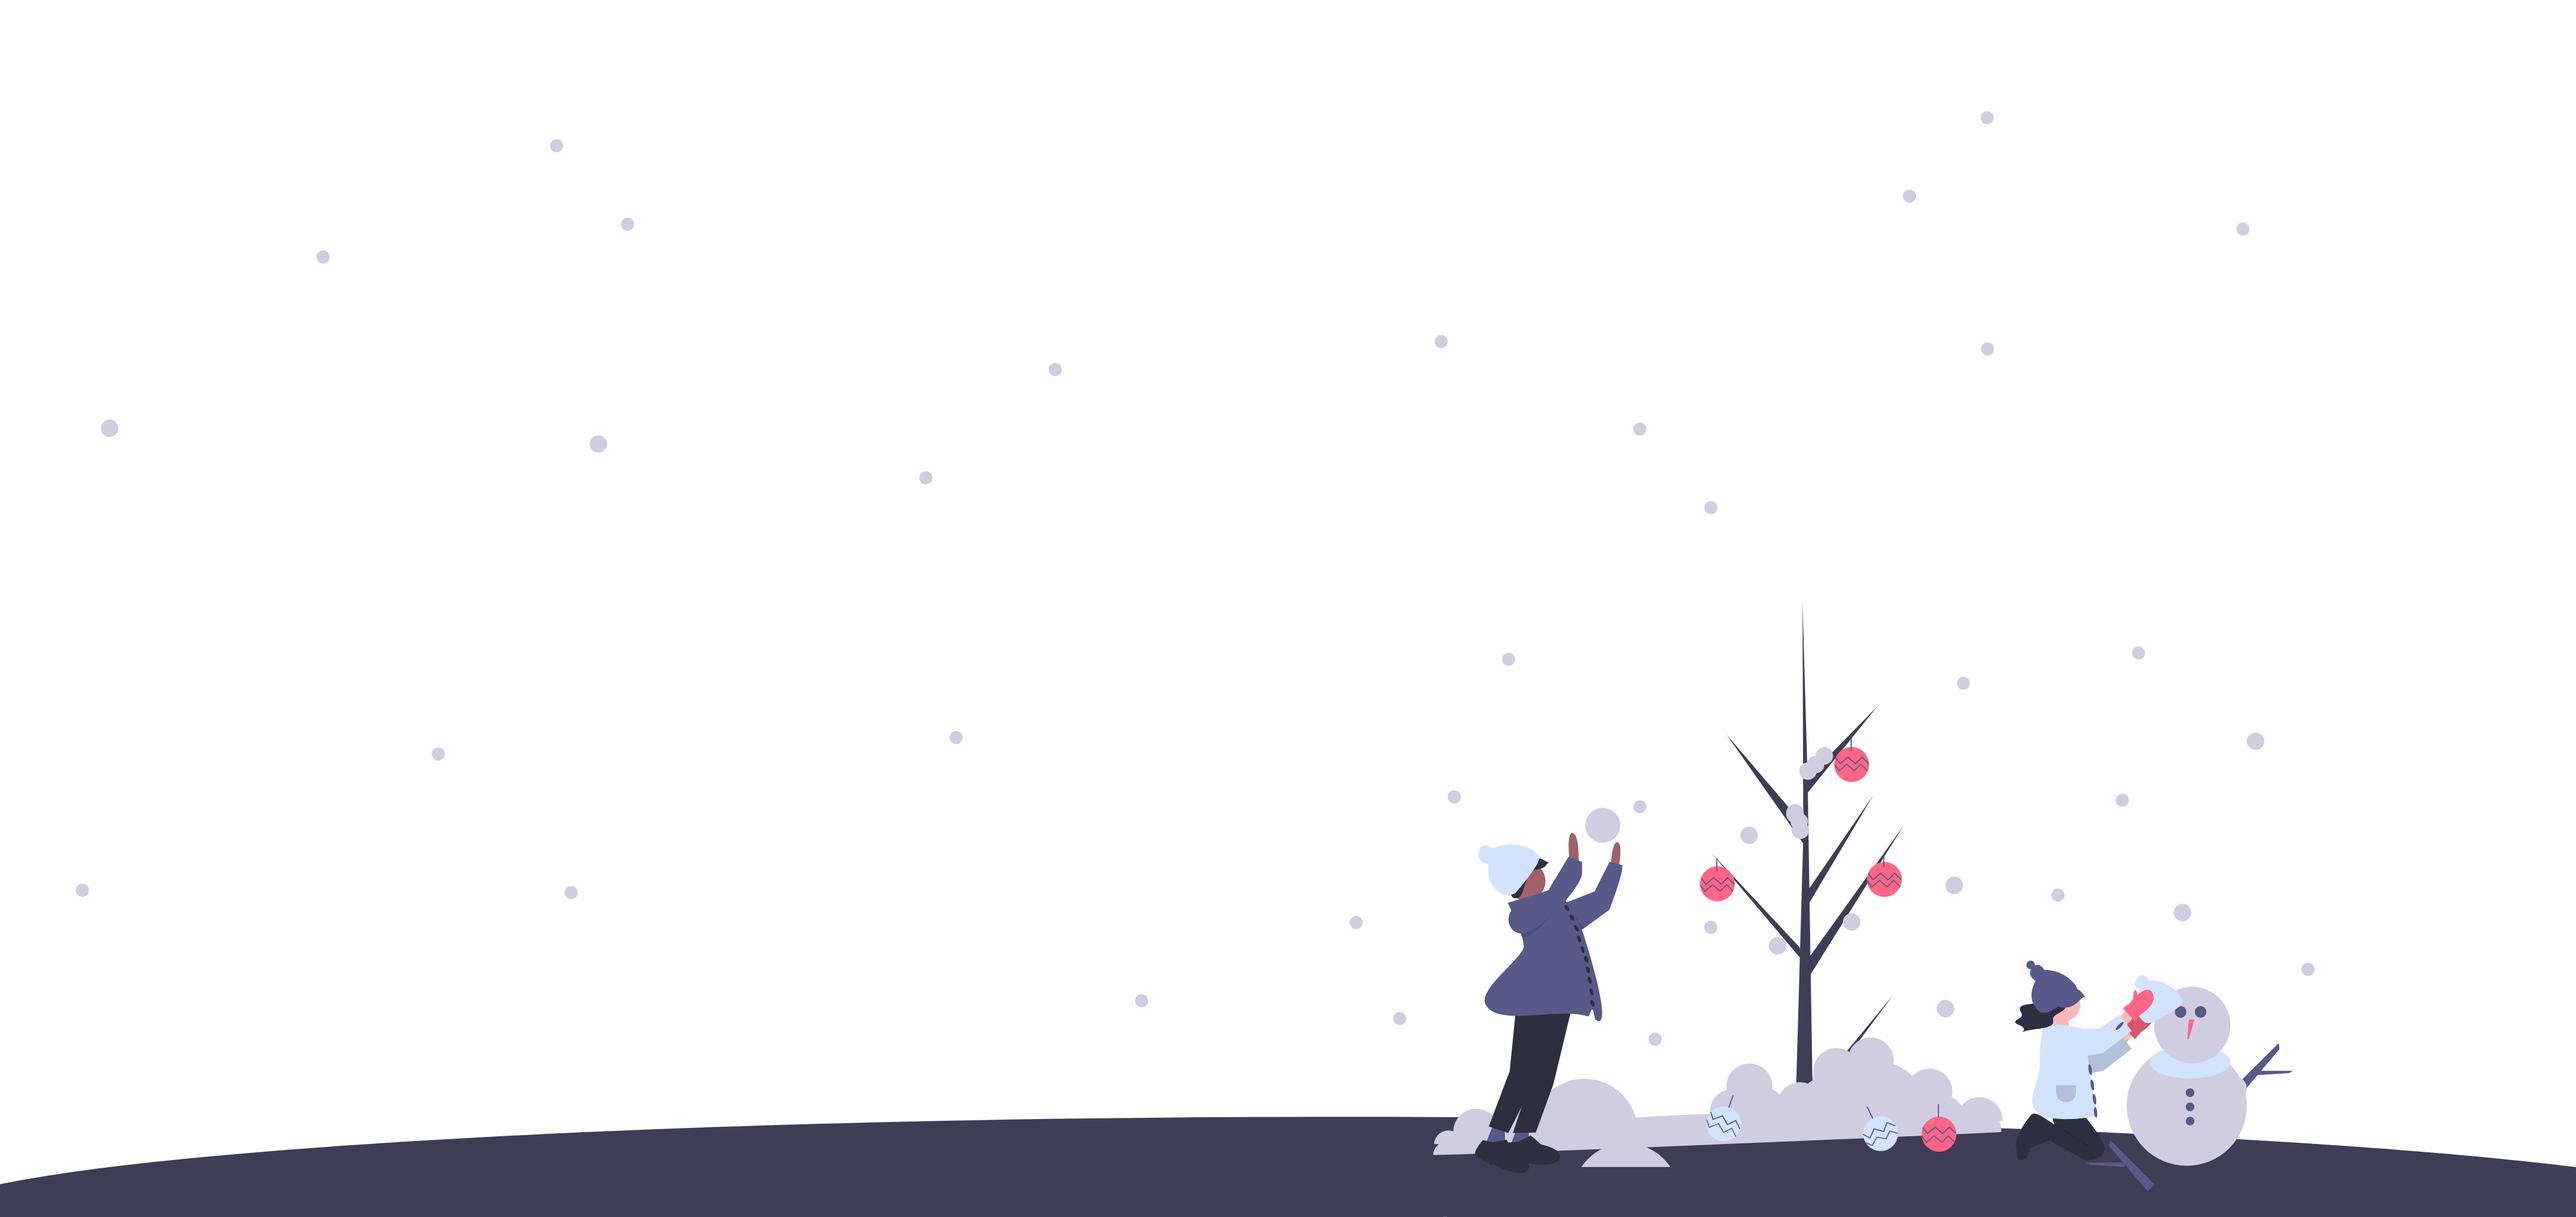
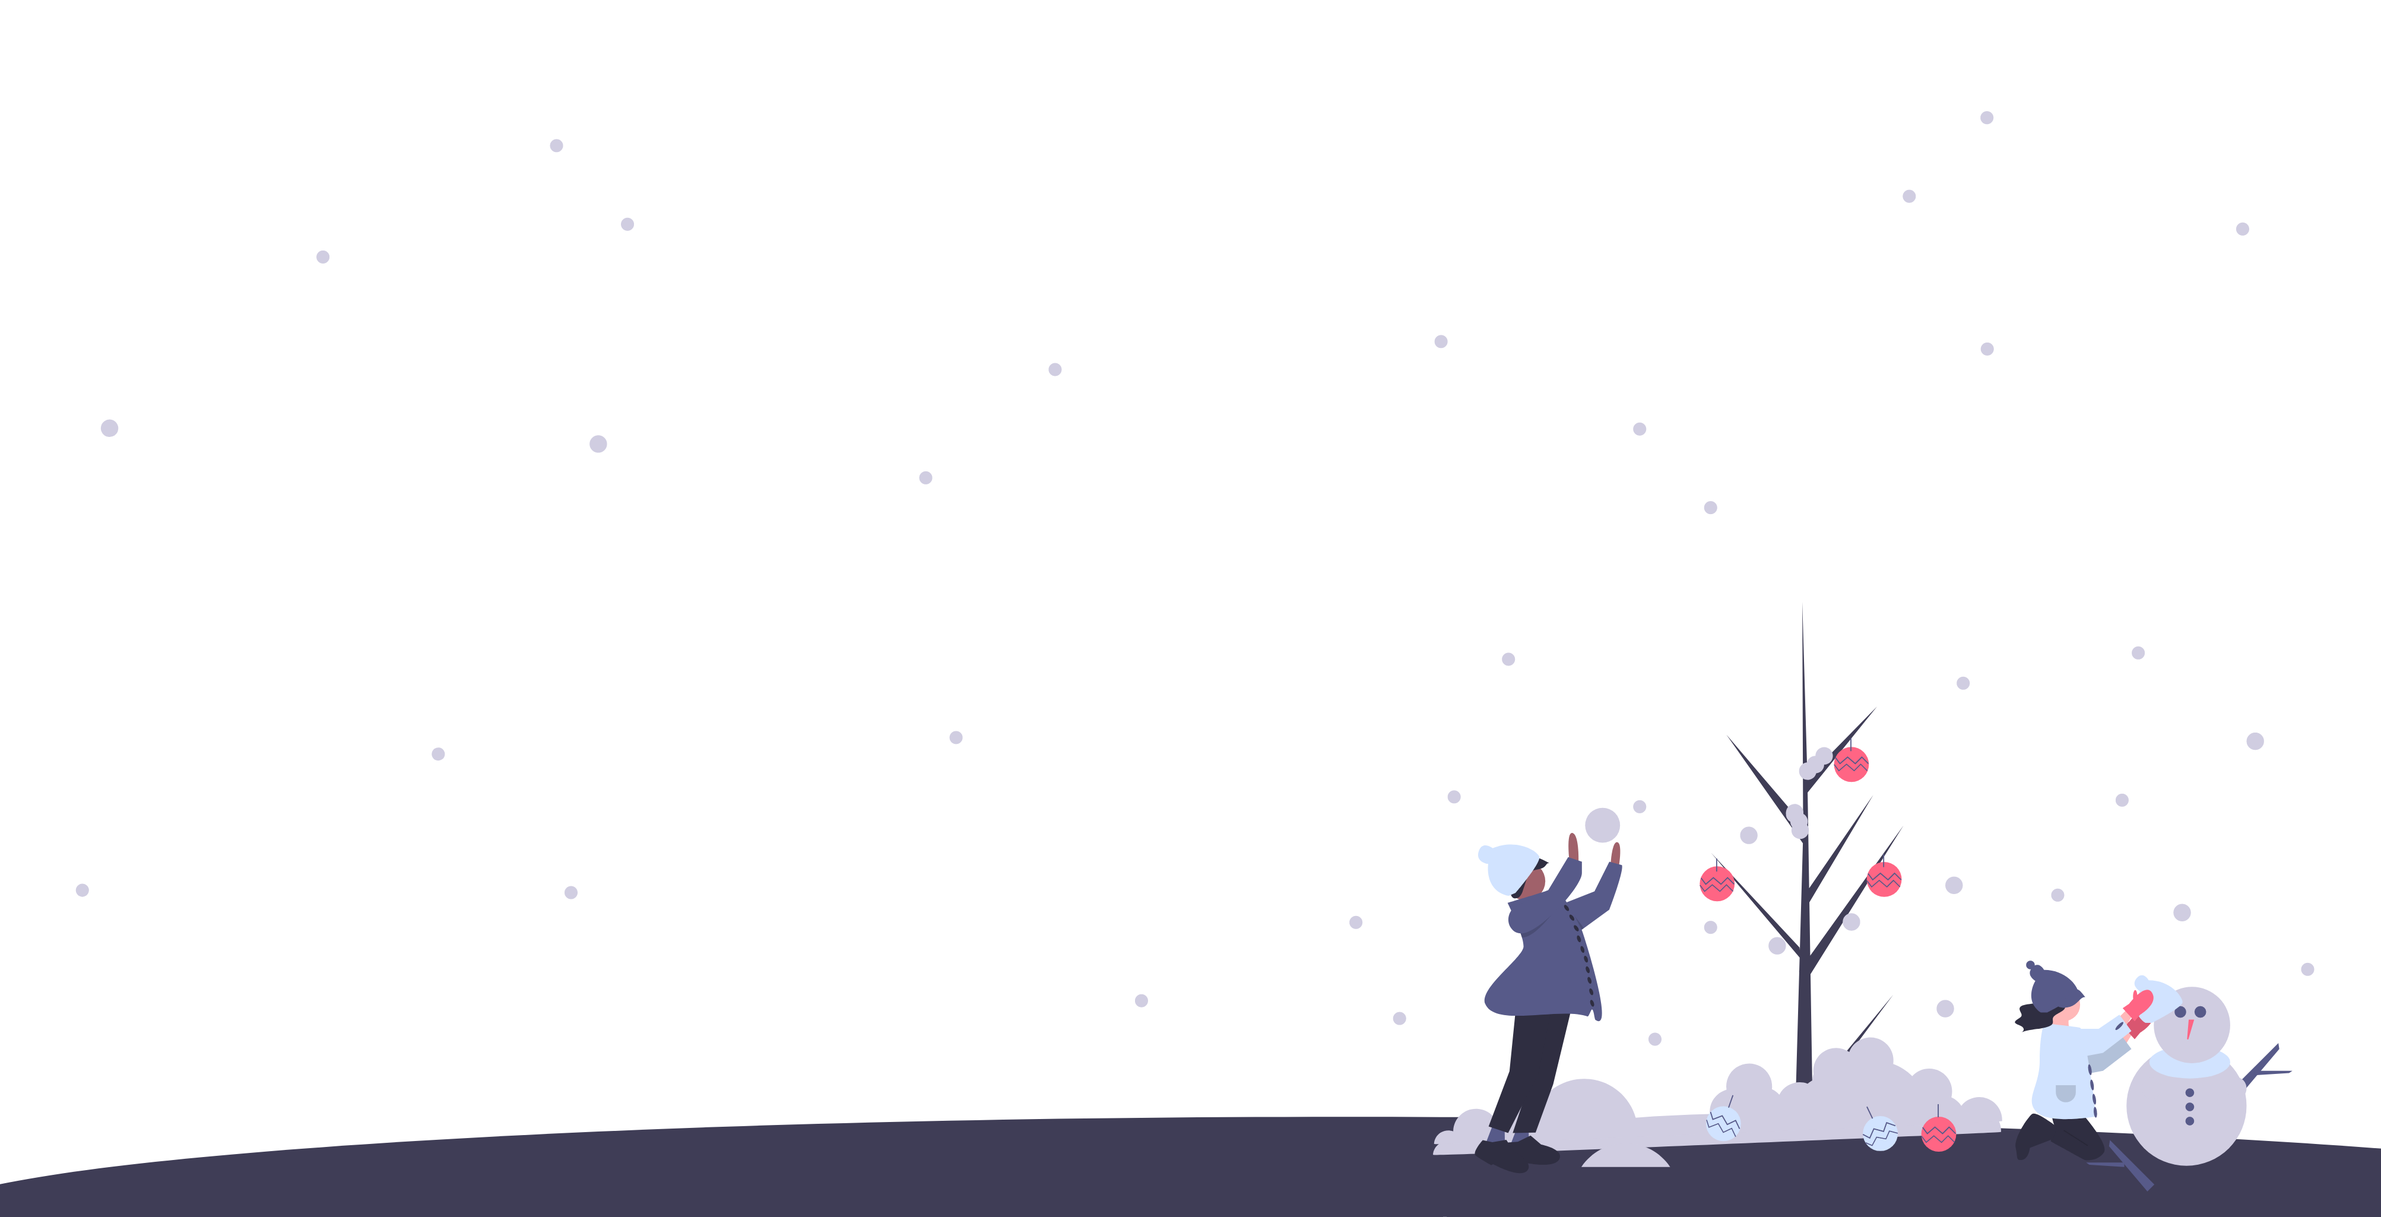
more centered image when using a small page

Changed region(s): [[0.561, 0.5932, 1.0, 0.9678]]

diff --git a/packages/website/src/components/style.js b/packages/website/src/components/style.js
@@ -59,7 +59,7 @@ export default createGlobalStyle`
     height: 100vh;
     width: 100vw;
     background-size: cover;
-    background-position: top;
+    background-position: right;
     z-index: 1;
   }
 
